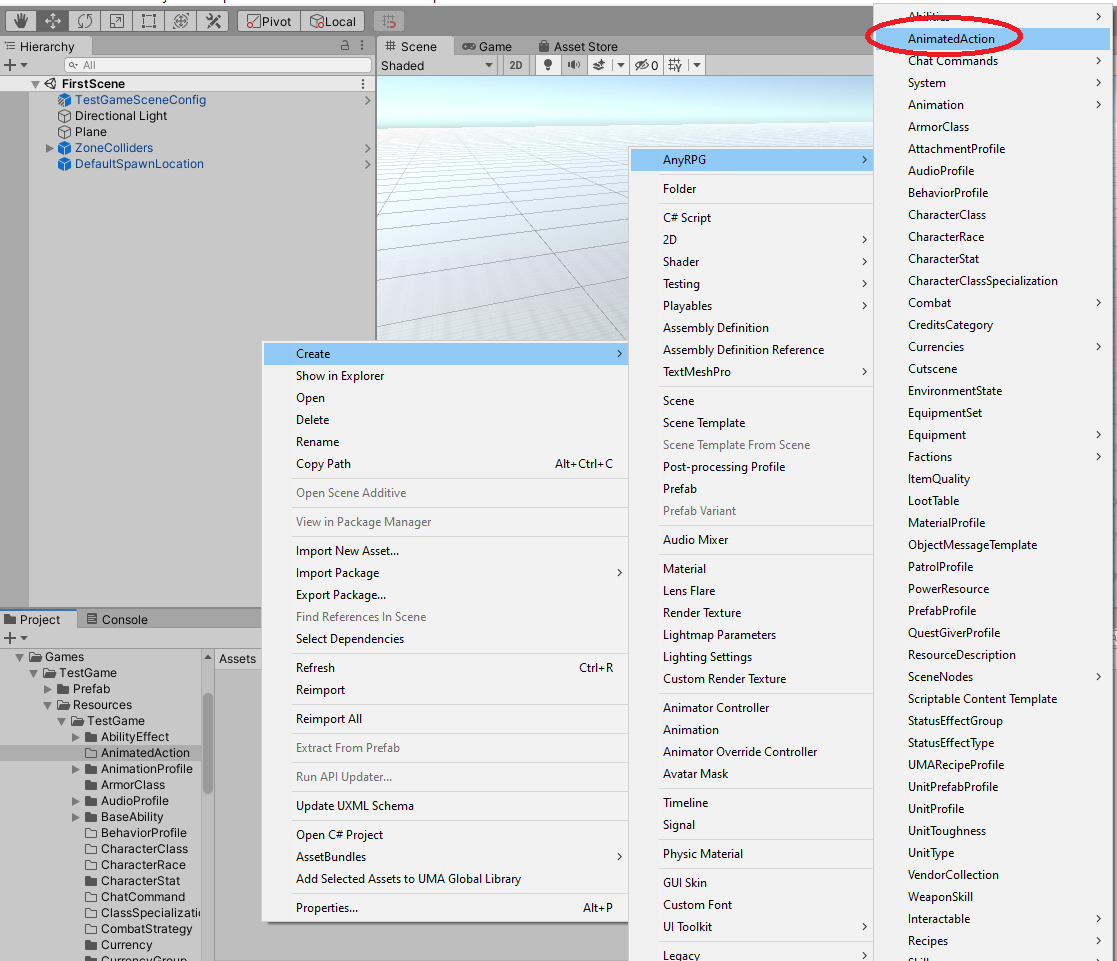
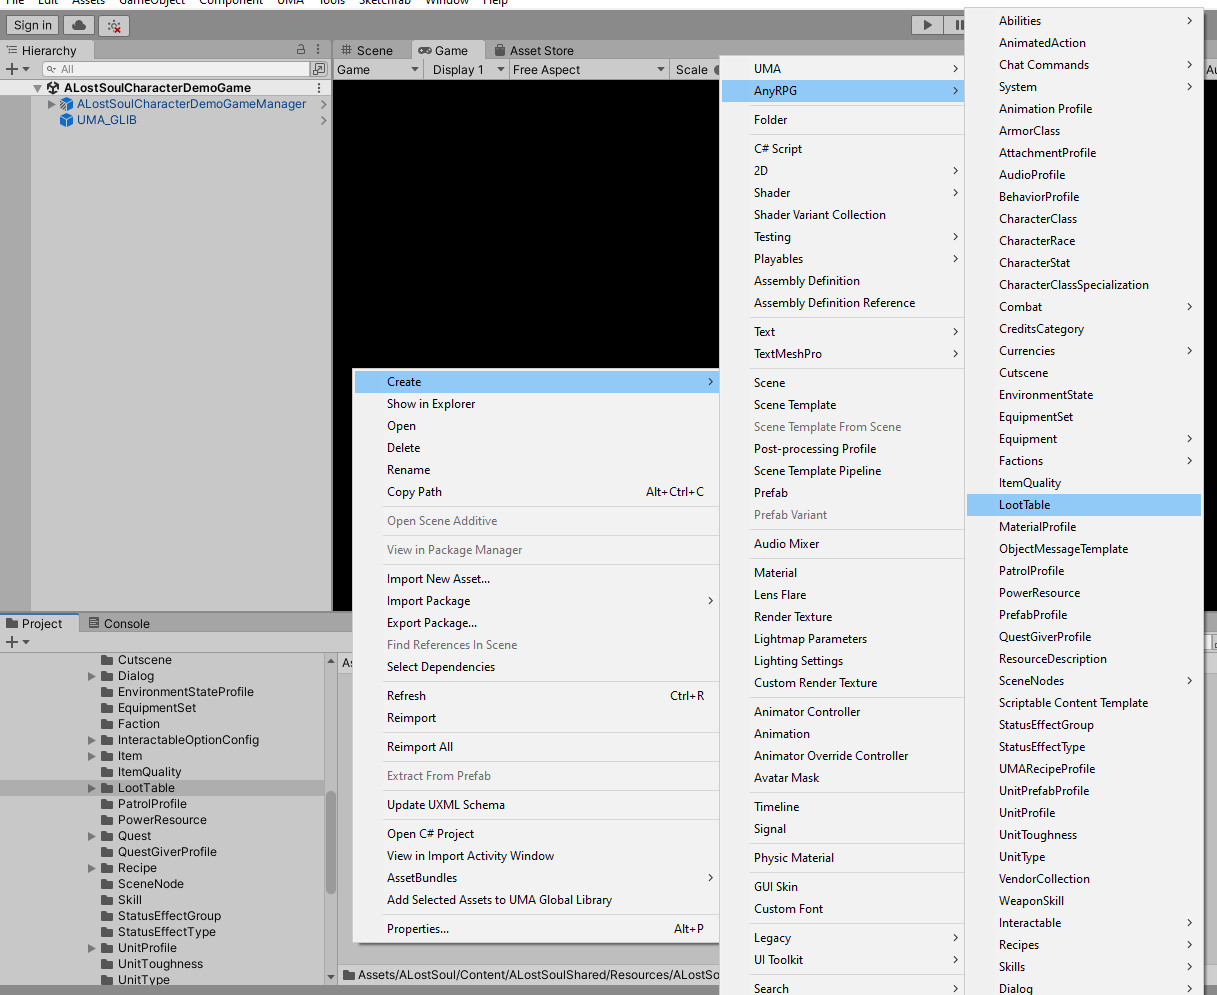
GitBook: [#38] add loot table documentation

diff --git a/scriptable-objects/loot-table/README.md b/scriptable-objects/loot-table/README.md
@@ -1,5 +1,52 @@
+---
+description: >-
+  A loot table is a list of items that can drop from any lootable source such as
+  characters, item pickups, and gathering nodes.
+---
+
 # Loot Table
 
-{% hint style="info" %}
-Coming Soon
-{% endhint %}
+## Creation
+
+To create a loot table, find (or create) the _GameName/Resources/GameName/LootTable_ folder in the project tab and right click.  Choose _Create > AnyRPG > LootTable_.
+
+![](<../../.gitbook/assets/image (99).png>)
+
+
+
+## Properties
+
+| Name                     | Description                                                                                                                                                                                                                                                             |
+| ------------------------ | ----------------------------------------------------------------------------------------------------------------------------------------------------------------------------------------------------------------------------------------------------------------------- |
+| Ignore Global Drop Limit | Any lootable source can have a global limit on the number of items dropped, no matter how many loot tables it has.  If this option is true, that limit will be ignored, and the drop limit from this loot table will be used instead when rolling loot from this table. |
+| Drop Limit               | If _Ignore Global Drop Limit_ is true, this number will be the limit of the number of [Items](../items/) dropped from this table.                                                                                                                                       |
+| Loot Groups              | A list of [Loot Groups](./#properties-1) that shares drop chance and limit settings.                                                                                                                                                                                    |
+
+### Loot Groups
+
+| Name                     | Description                                                                                                                                                  |
+| ------------------------ | ------------------------------------------------------------------------------------------------------------------------------------------------------------ |
+| Guaranteed Drop          | If true, the number of [Items](../items/) defined in the _Drop Limit_ field for this group will be guaranteed to drop, using their _Drop Chance_ as weights. |
+| Group Chance             | The chance this group will attempt to drop [Items](../items/).                                                                                               |
+| Drop Limit               | The amount of [Items](../items/) that can drop from this list.  0 is unlimited.                                                                              |
+| Unique Limit             | The limit to the number of times the same [Item](../items/) can drop.  0 is unlimited.                                                                       |
+| Ignore Global Drop Limit | If true, the [Items](../items/) on this list will ignore any parent drop limits.                                                                             |
+| Loot                     | A list of [Items](../items/) that can drop.                                                                                                                  |
+
+#### Loot
+
+| Name                    | Description                                                                                                                                                                                       |
+| ----------------------- | ------------------------------------------------------------------------------------------------------------------------------------------------------------------------------------------------- |
+| Item Name               | The name of an [Item](../items/) that can drop.                                                                                                                                                   |
+| Drop Chance             | The percentage chance that this [Item](../items/) can drop.                                                                                                                                       |
+| Min Drops               | The minimum number of this [Item](../items/) that will drop.                                                                                                                                      |
+| Max Drops               | The maximum number of this [Item](../items/) that will drop.                                                                                                                                      |
+| Match Item Restrictions | If true, [Character Class](../character-class.md) restrictions on the item must match for it to drop.  This is useful to prevent items from dropping that do no match the player's current class. |
+| Prerequisite Conditions | A list of [Prerequisite Conditions](../../shared-properties/prerequisite-conditions.md) that must be met for this item to drop.                                                                   |
+
+## Next Steps
+
+* Add a loot table to a [Unit Profile](../unit-profile.md).
+* Add a loot table to Gathering Node.
+* Add a loot table to an Item Pickup.
+* Add a loot table to a [Scene Node](../scene-node.md).

diff --git a/scriptable-objects/chat-commands/action-command.md b/scriptable-objects/chat-commands/action-command.md
@@ -10,7 +10,7 @@ description: Action commands allow the player to perform animation actions.
 
 To create an action command, find (or create) the _GameName/Resources/GameName/ChatCommand_ folder in the project tab and right click.  Choose _Create > AnyRPG > Chat Commands > Action Command_.
 
-![](<../../.gitbook/assets/image (117).png>)
+![](<../../.gitbook/assets/image (117) (1).png>)
 
 ## Properties
 

diff --git a/scriptable-objects/animated-action.md b/scriptable-objects/animated-action.md
@@ -10,7 +10,7 @@ description: Animated Actions allow the character to perform any animation.
 
 To create an animated action, find (or create) the _GameName/Resources/GameName/AnimatedAction_ folder in the project tab and right click.  Choose _Create > AnyRPG > AnimatedAction_.
 
-![](<../.gitbook/assets/image (99).png>)
+![](<../.gitbook/assets/image (99) (1).png>)
 
 ## Properties
 

diff --git a/scriptable-objects/chat-commands/README.md b/scriptable-objects/chat-commands/README.md
@@ -12,4 +12,4 @@ description: >-
 
 To use a chat command, enter text into the chat box in the chat log that starts with the slash ("/") character, followed by a valid command and any parameters that command accepts.  Press `Enter` or click the _Send_ button to execute the command.
 
-![](<../../.gitbook/assets/image (98).png>)
+![](<../../.gitbook/assets/image (98) (1).png>)

diff --git a/scriptable-objects/item-quality.md b/scriptable-objects/item-quality.md
@@ -11,7 +11,7 @@ description: >-
 
 To create an item quality, find (or create) the _GameName/Resources/GameName/ItemQuality_ folder in the project tab and right click.  Choose _Create > AnyRPG > ItemQuality_.
 
-![](<../.gitbook/assets/image (1).png>)
+![](<../.gitbook/assets/image (117).png>)
 
 
 

diff --git a/scriptable-objects/equipment-set.md b/scriptable-objects/equipment-set.md
@@ -10,7 +10,7 @@ description: >-
 
 To create an equipment set, find (or create) the _GameName/Resources/GameName/EquipmentSet_ folder in the project tab and right click.  Choose _Create > AnyRPG > EquipmentSet_.
 
-![](<../.gitbook/assets/image (2).png>)
+![](../.gitbook/assets/image.png)
 
 
 

diff --git a/scriptable-objects/faction.md b/scriptable-objects/faction.md
@@ -10,7 +10,7 @@ description: >-
 
 To create a faction, find (or create) the _GameName/Resources/GameName/Faction_ folder in the project tab and right click.  Choose _Create > AnyRPG > Factions > Faction_.
 
-![](../.gitbook/assets/image.png)
+![](<../.gitbook/assets/image (98).png>)
 
 
 

diff --git a/architecture/project-settings/physics-settings.md b/architecture/project-settings/physics-settings.md
@@ -7,4 +7,4 @@ The most important settings are:
 
 The full settings matrix is below.
 
-<img src="../../.gitbook/assets/image (2) (1).png" alt="" data-size="original">
+<img src="../../.gitbook/assets/image (2).png" alt="" data-size="original">

diff --git a/wizards/minimap-wizard.md b/wizards/minimap-wizard.md
@@ -16,7 +16,7 @@ The Minimap Wizard can be opened by clicking _Tools_ in the menu bar, and select
 
 ![](<../.gitbook/assets/image (8).png>)
 
-![](<../.gitbook/assets/image (1) (1).png>)
+![](<../.gitbook/assets/image (1).png>)
 
 ## Settings
 
